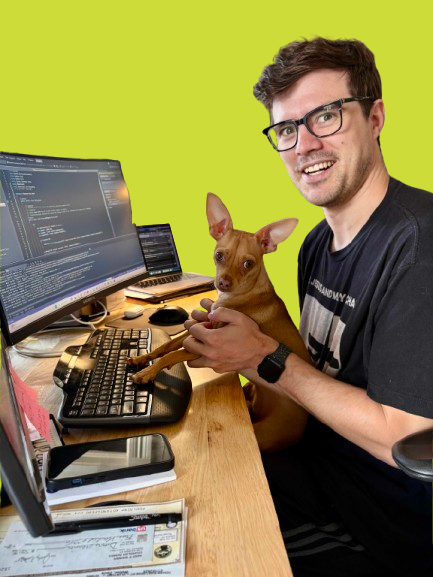
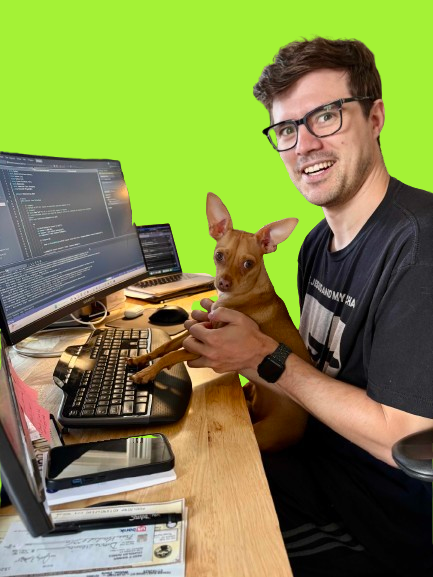
Minor adjustments to About me

diff --git a/src/components/AboutMe.jsx b/src/components/AboutMe.jsx
@@ -26,7 +26,7 @@ const AboutMe = () => {
       </h1>
       <div className='font-mussels text-center mb-4 flex flex-col lg:flex-row items-center justify-between gap-4'>
         <img
-          className='w-36 h-36 object-cover rounded-xl shadow-md shadow-gray-400'
+          className='w-36 h-36 object-cover border-alien_green border-4 rounded-full object-top shadow-md shadow-gray-400'
           src={MeImg}
           alt='Me'
         />
@@ -62,7 +62,7 @@ const AboutMe = () => {
       <div className='flex lg:flex-row flex-col gap-2 items-center justify-between'>
         <div
           ref={cardRefSpotify}
-          className='bg-dark_gray rounded-lg p-4 shadow-xl shadow-gray-400'
+          className='bg-dark_gray rounded-lg p-4 shadow-xl shadow-gray-400 hover:outline hover:outline-2 hover:outline-offset-1 hover:outline-alien_green'
           style={{ width: '320px', height: '445px' }}
         >
           <a
@@ -79,7 +79,7 @@ const AboutMe = () => {
         </div>
         <div
           ref={cardRefNowReading}
-          className='bg-dark_gray rounded-lg p-4 shadow-xl shadow-gray-400'
+          className='bg-dark_gray rounded-lg p-4 shadow-xl shadow-gray-400 hover:outline hover:outline-2 hover:outline-offset-1 hover:outline-alien_green'
           style={{ width: '320px', height: '445px' }}
         >
           <h2 className='text-xl font-mussels-bold text-center text-white mb-2'>Currently Reading</h2>
